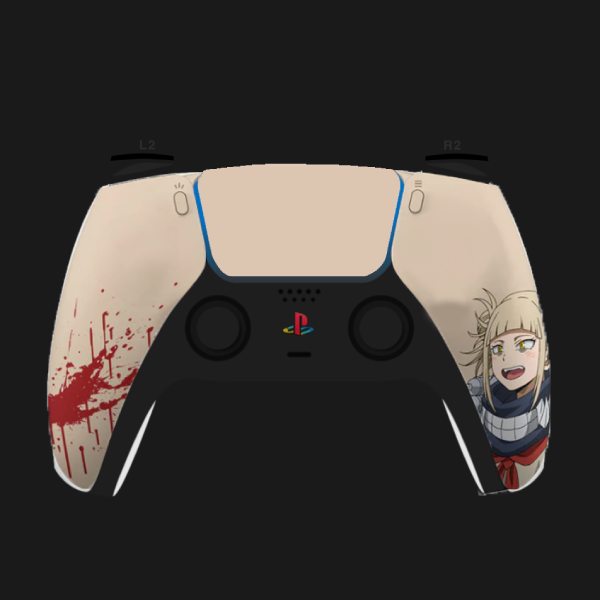
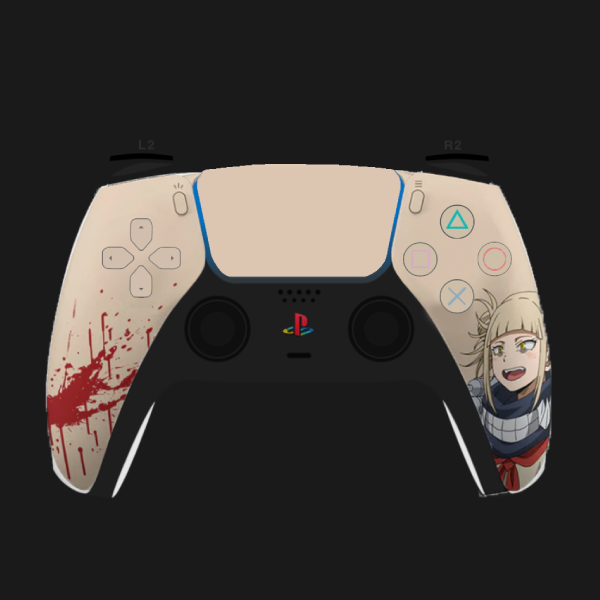
fixed HT GPV Image

diff --git a/website/gamepad/showcase.html b/website/gamepad/showcase.html
@@ -53,7 +53,7 @@
 <body>
 
 <div class="iframe-container">
-  <iframe src="https://gamepadviewer.com/?p=1&s=8&editcss=https%3A%2F%2Funofficialdxnny.com%2FAssets%2Fgamepads%2FNxght%2Fstyle.css" allowfullscreen></iframe>
+  <iframe src="https://gamepadviewer.com/?p=1&s=5&editcss=https%3A%2F%2Funofficialdxnny.com%2FAssets%2Fgamepads%2FhimikoTogo%2Fstyle.css" allowfullscreen></iframe>
 </div>
 
 </body>
